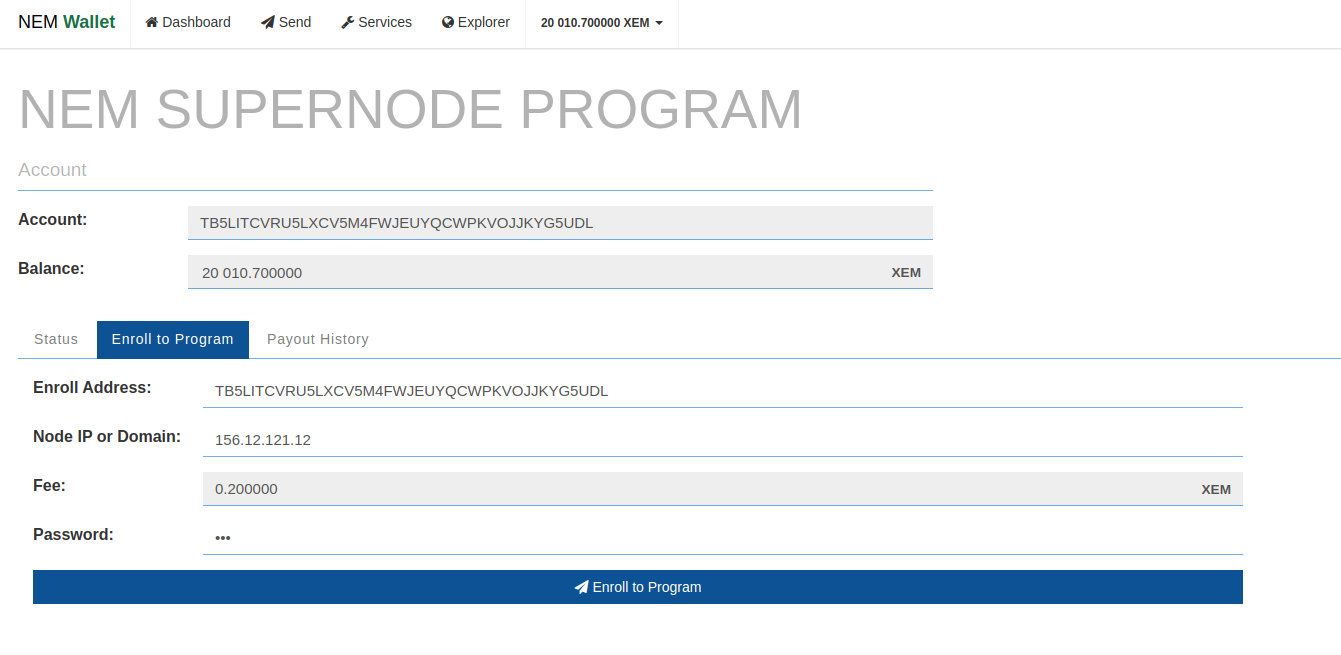
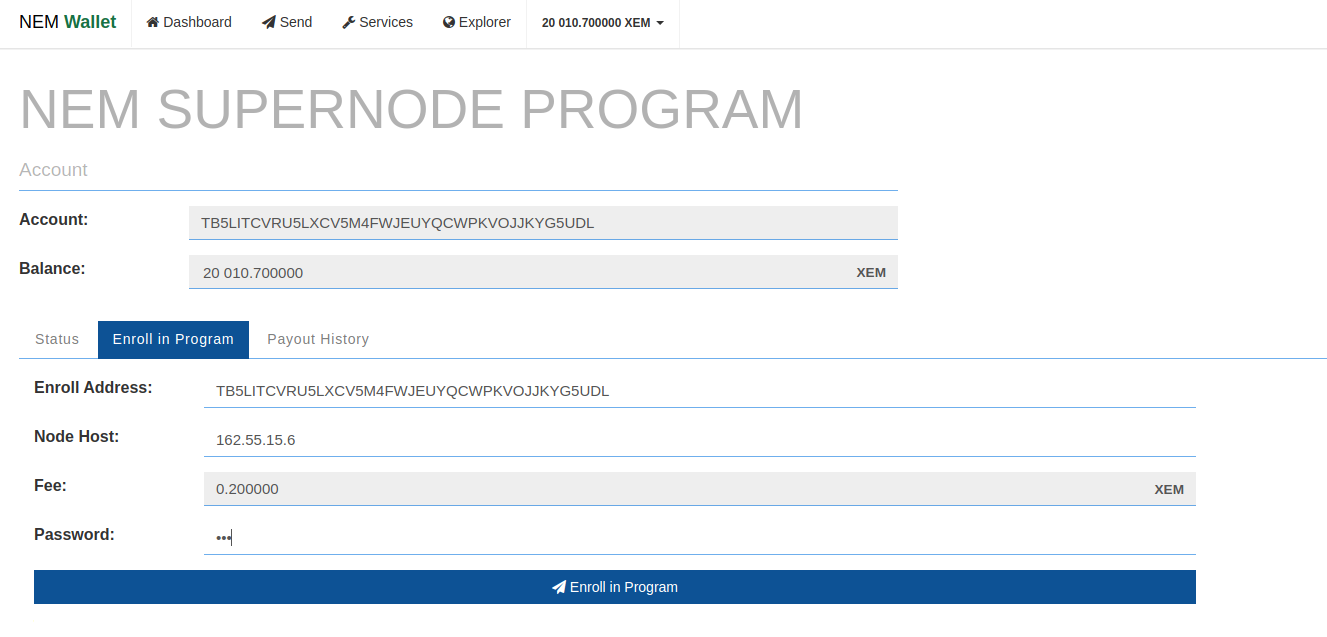
feat: Update Supernode Guide for NEM - code review fixes

diff --git a/pages/Guides/supernode-program/docs.en.md b/pages/Guides/supernode-program/docs.en.md
@@ -6,35 +6,76 @@ taxonomy:
     category: docs
 ---
 
-## About Supernodes
+## About the NEM Supernode Program
 
-The NEM Supernode's Program is funded with XEM set aside during the Nemesis block. These rewards are then given to high performance nodes for helping to secure the network. These nodes form a backbone of support for light wallets, mobile wallets, and 3rd party apps so that users of these services might have access to the network that is easy, fast, and reliable without having to sync a blockchain by themselves or use untrustworthy centralized services.
+NEM is a cryptocurrency with 100% issuance in the Genesis block. In lieu of block rewards, 10,000,000 XEM has been set aside to reward validators: a full node that participates in the consensus and security of the network, and provides high-speed data availability for applications on the NEM blockchain.
 
-The NEM network has been designed from the very beginning with the goal in mind that any light client can securely connect to and use any server safely to make any transaction. Supernodes are expected to be high performance and reliable nodes. They are regularly tested on their bandwidth, chain height, chain parts, computing power, version, ping, and responsiveness to make sure that they are performing to high standards. If they meet all these requirements, they are randomly given rewards.
+Validators are rewarded daily for passing all rounds of tests. Each day are executed 4 rounds (every 6 hours) of tests. In order to complete round node must pass following tests:
 
-## Steps to Enroll and Participate in Supernodes
+**Chain Height**
+The chain height test checks that a node reports the correct height via the ``/chain/height API``. It retrieves a node’s height and compares it to the reference node’s height. 
 
-- **Step 1**: Download and run NEM Wallet from [the GitHub releases page](https://github.com/NemProject/NanoWallet/releases).
+This test passes if the node reports a height that is no more than four blocks behind the reference node’s height.
 
-  You can find tutorials on how to use NEM Wallet [here](https://nemproject.github.io/nem-docs/pages/Guides/nanowallet/docs.en.html).
+**Chain Part**
+The chain part test checks that a node can serve a random subset of blocks close to the end of the chain via the ``/chain/blocks-after`` API. First, it retrieves a node’s self reported height. Next, it requests a random number of blocks (between 60 and 100) from the node. Finally, it calculates the hash of each block and then a single composite hash over those hashes. The same composite hash is calculated over blocks retrieved from the reference node.
 
-- **Step 2**: Make an account and have at least 10,010 XEM.
+This test passes if all returned blocks are verifiable with proper signatures and the calculated composite hashes from the node and reference node match.
 
-  10,000 XEM to be able to participate in the Program, and ~10 XEM to be able to pay the fees for activating delegated harvesting and sending the enrollment message. (You have to re-enroll in the Program every month - 10 XEM should be enough to cover fees for at least a year.)
+**Computing Power**
+The computing power test checks that a node is running on sufficiently strong hardware. The master calls a node’s ``nr/computing-power`` API with a random hash. The node interprets that hash as a private key and derives a public key from it. It then interprets that new public key as a private key and derives another public key from it. This is repeated 10000 times and the final public key is returned to the master.
 
-- **Step 3**: Activate delegated harvesting on your main account.
+This test passes if the public key matches the value calculated by the master and the entire operation, including roundtrip, completes in 5s or less.
+
+**Version**
+The version test checks that a node is running a recent version of the NIS client software. It requests a node’s version via the ``/node/info`` API.
+
+This test passes if the node’s version is greater than or equal to the reference node’s version.
+
+**Ping**
+The ping test checks that a node is running on sufficiently responsive hardware. The master selects 5 nodes at random and passes them to the node under test via the ``nr/task/ping`` API. Upon receiving the partner nodes, the node calls the ``nr/ping`` API on each partner 5 times each and measures the roundtrip time. When all pings are complete, the node reports the roundtrip times to the master.
+
+This test passes when no more than one ping fails and the average ping time of all successful samples is less than 200ms.
+
+**Bandwidth**
+The bandwidth test checks a node is running on hardware with a sufficiently good network connection. The master selects the partner node with the lowest ping time as measured by the ping test and passes it to the node under test via the ``nr/task/bandwidth`` API. The master also sends a random hash seed. The node then sends the random hash seed to the partner, which hashes it 30000 times and returns a list of all resulting hashes concatenated to the seed. The sending node measures the time needed to complete this operation. Finally, the sending node independently performs the same hash calculation and returns the results to the master.
+
+This test passes when the hashes calculated by the node and the partner node are equal and the measured operation time indicates a transfer speed of at least 5 Mbit/s.
+
+**Responsiveness**
+The responsiveness test checks how quickly a node can respond to a chain height request. The master initiates 10 chain height requests via the ``/chain/height`` API. It then calculates the total amount of time to fulfill all of the requests.
+
+This test passes when at least 9 requests are fulfilled and the total time to fulfill all requests was no greater than one second. If only the time threshold is exceeded, the master will retry this test up to 4 times.
+
+## Steps to Enroll and Participate in the Supernode Program
+
+- **Step 1**: Download and Launch NEM Wallet From [the GitHub Releases Page](https://github.com/NemProject/NanoWallet/releases).
+
+- **Step 2**: Make an Account and Have at Least 10,010 XEM.
+
+  10,000 XEM to be able to participate in the Supernode Program, and ~10 XEM to be able to pay the fees for activating delegated harvesting and sending the enrollment message. (You will need to re-enroll in the Supernode Program every month - 10 XEM should be enough to cover fees for at least a year.)
+
+- **Step 3**: Activate Delegated Harvesting on Your Main Account.
 
   The tutorial for NEM Wallet delegated harvesting can be found [here](https://nemproject.github.io/nem-docs/pages/Guides/nanowallet/delegated-harvesting/docs.en.html).
   
-  Remember, 6 hours must pass before you can start harvesting, but for the sake of Supernodes, once you have the delegated private key (which is available instantly), you may proceed. (Please make sure to get the private key from the **delegated** harvesting account, not your main account and not either of the public keys.)
+  Remember, 6 hours must pass before you can start harvesting, but for the sake of the Supernode Program, once you have the delegated private key (which is available instantly), you may proceed. (Please make sure to get the private key from the **delegated** harvesting account, not your main account and not either of the public keys.)
   
   To find your **delegated** private key go to Services -> Delegated Harvesting -> Manage delegated account. Choose "Show delegated account keys", and put the password to reveal the delegated private key.
 
-- **Step 4**: If you don't have a NIS node, you need to set up it first. The tutorial can be found [here](https://nemproject.github.io/nem-docs/pages/Guides/node-operation/docs.en.html).
+  It's important to understand the difference between Main and Delegated Key Pairs which are used in NEM:
+  - Main - Is used to control funds for your account. If the main private key will be stolen all funds could be transferred to another account. Never expose your Main Private Key!
+  - Delegated - Is used to control delegated harvesting. If the delegated private key will be stolen your funds are safe. You'll be also able to change the compromised delegated account linked to your Main account.
+  
+  For NEM node and Servant configuration you should use always **Delegated** keys.
 
-- **Step 5**: Shut down the NIS node, if running.
+- **Step 4**: Setup NEM Node.
 
-- **Step 6**: Configure your NIS node to autoboot with the **delegated** private key.
+  If you don't have a NEM node, you need to set up it first. The tutorial can be found [here](https://nemproject.github.io/nem-docs/pages/Guides/node-operation/docs.en.html).
+
+- **Step 5**: Shutdown the NIS Client, if Running.
+
+- **Step 6**: Configure Your NEM Node to Autoboot With the **Delegated** Private Key.
 
   You will need to edit the config file in your NIS folder to do this. Here is some help:
 
@@ -50,44 +91,48 @@ The NEM network has been designed from the very beginning with the goal in mind 
 
   To test if you have done this correctly restart your node. If you have followed all steps correctly, you will see that your NIS is booting and synchronizing automatically.
 
-- **Step 7**: Download the [node servant](https://bob.nem.ninja/servant_0_0_4.zip).
+- **Step 7**: Download the [Node Servant](https://bob.nem.ninja/servant_0_0_4.zip).
   
-  This is a very light application that will run 24/7 on the same machine as your NIS to perform tests and monitor the network.
+  This is a very light application that will run 24/7 on the same machine as your NIS client to perform tests and monitor the network.
 
-- **Step 8**: Configure the servant.
+- **Step 8**: Configure the Servant.
 
   Unzip and open the folder ``servant``. Open the file ``config.properties`` with a text editor. In your text editor enter your static IP or domain name for the ``nem.host`` field. (It is important that your domain name or static IP associated with your node is fixed for the stability of the network.) Then in the field ``servant.key`` enter your delegated private key from Step 3. (Again make sure to use your delegated private key and not your main account private key.) Save your edits and close the text editor.
 
   ![servant config.properties](Screenshot-2016-01-06-14-07-35-copy-1.png)
 
-- **Step 9**: Open inbound/outbound TCP ports 7890 (NIS), 7880 (servant), and 7778 (websocket for NEM Wallet).
+- **Step 9**: Open Inbound/Outbound TCP ports 7890 (NIS), 7880 (Servant), and 7778 (Websocket).
 
   Opening 7890 allows your node to be a full node and contribute to the network. If you were successful you will see your node's name appear on [Explorer](https://explorer.nemtool.com/#/nodelist). This might take a while to appear.
 
   Opening port 7880 is required to allow the servant to work correctly.
 
-  Port 7778 allows light wallets to connect to the server.
+  Port 7778 allows NEM Wallet to connect using websockets to the server.
 
-- **Step 10**: Start NIS, let it synchronize, and then start the servant.
+- **Step 10**: Start NIS Client, Let it Synchronize, and Then Start the Servant.
 
   To start the servant double-click on ``runservant.bat`` in the ``servant`` folder. (In Mac or Linux navigate to the file in terminal and use the command ``sh startservant.sh``. It's recommended to run in background using ``screen`` or ``nohup`` command.)
 
-- **Step 11**: Enroll in the Program using NEM Wallet.
+- **Step 11**: Enroll in the Program.
 
-  Go to Services -> SuperNode Program -> Check & Enroll in Program -> Enroll in Program, put the enrollment address for current month (announced via official Twitter and Discord) and your node host for your node. Send enrollment transaction.
+  Go to Services -> SuperNode Program -> Check & Enroll in Program -> Enroll in Program, put the enrollment address for current month (announced via [Twitter](https://twitter.com/nemofficial) and [Discord](https://www.discord.gg/xymcity)) and host for your NEM node. Send enrollment transaction.
+
+  ![NEM Wallet Enrollment](wallet-enroll.png)
+
   Make sure host matches your node host from ``/node/info`` endpoint response.
 
   ![Endpoint response](node-info.png)
 
-  ![NEM Wallet Enrollment](wallet-enroll.png)
-
-  To breathe life into NEM, the new program will require monthly re-enrollments in order to increase engagements.
-  Prior to the month-end, a new enrollment address will be announced by [Twitter account](https://twitter.com/nemofficial) and [Discord](https://www.discord.gg/xymcity).
+  The Supernode Program requires monthly re-enrollments. We believe the set-and-forget philosophy of node operation rewards unhealthy behaviours, especially in a decentralised network where validators need to make informed decisions pertaining to the state of the network.
+  Prior to the month-end, a new enrollment address will be announced by [Twitter](https://twitter.com/nemofficial) and [Discord](https://www.discord.gg/xymcity).
   The node operator has to re-enroll each month using a new enrollment address. Enrollment for the next month is available 4 days before the end of the preceding month.
 
-  As an alternative, you can send enroll transaction manually. It should be transfer transaction with message ``enroll <NODE_HOST> <CODEWORD_HASH>`` to current enrollment address. As a ``<NODE_HOST>`` should be used host from ``/node/info`` endpoint. Current ``<CODEWORD_HASH>`` can be fetched for specific account by public key using Supernode API ``https://supernodesapi.nem.io/codeword/<public_Key>``.
+  As an alternative to enrollment via NEM Wallet, you can send enroll transaction manually. It should be transfer transaction with message ``enroll <NODE_HOST> <CODEWORD_HASH>`` to current enrollment address. 
+  As a ``<NODE_HOST>`` should be used host from ``/node/info`` endpoint. Current ``<CODEWORD_HASH>`` can be fetched for specific account by main **public key** (Make sure you are using public - not private key) using Supernode API: ``https://supernodesapi.nem.io/codeword/<main_public_Key>``.
 
-- **Step 12**: Review your results at [nem.io/supernodes](https://nem.io/supernodes) to make sure that your node is passing all the tests. Please be patient, since your results will not be visible immediately.
+- **Step 12**: Review Your Results at [nem.io/supernodes](https://nem.io/supernodes).
+
+  To make sure that your NEM node is passing all the tests review results at [nem.io/supernodes](https://nem.io/supernodes) webpage. Please be patient, since your results will not be visible immediately.
 
 ## Editing Your Supernode IP/Domain
 
